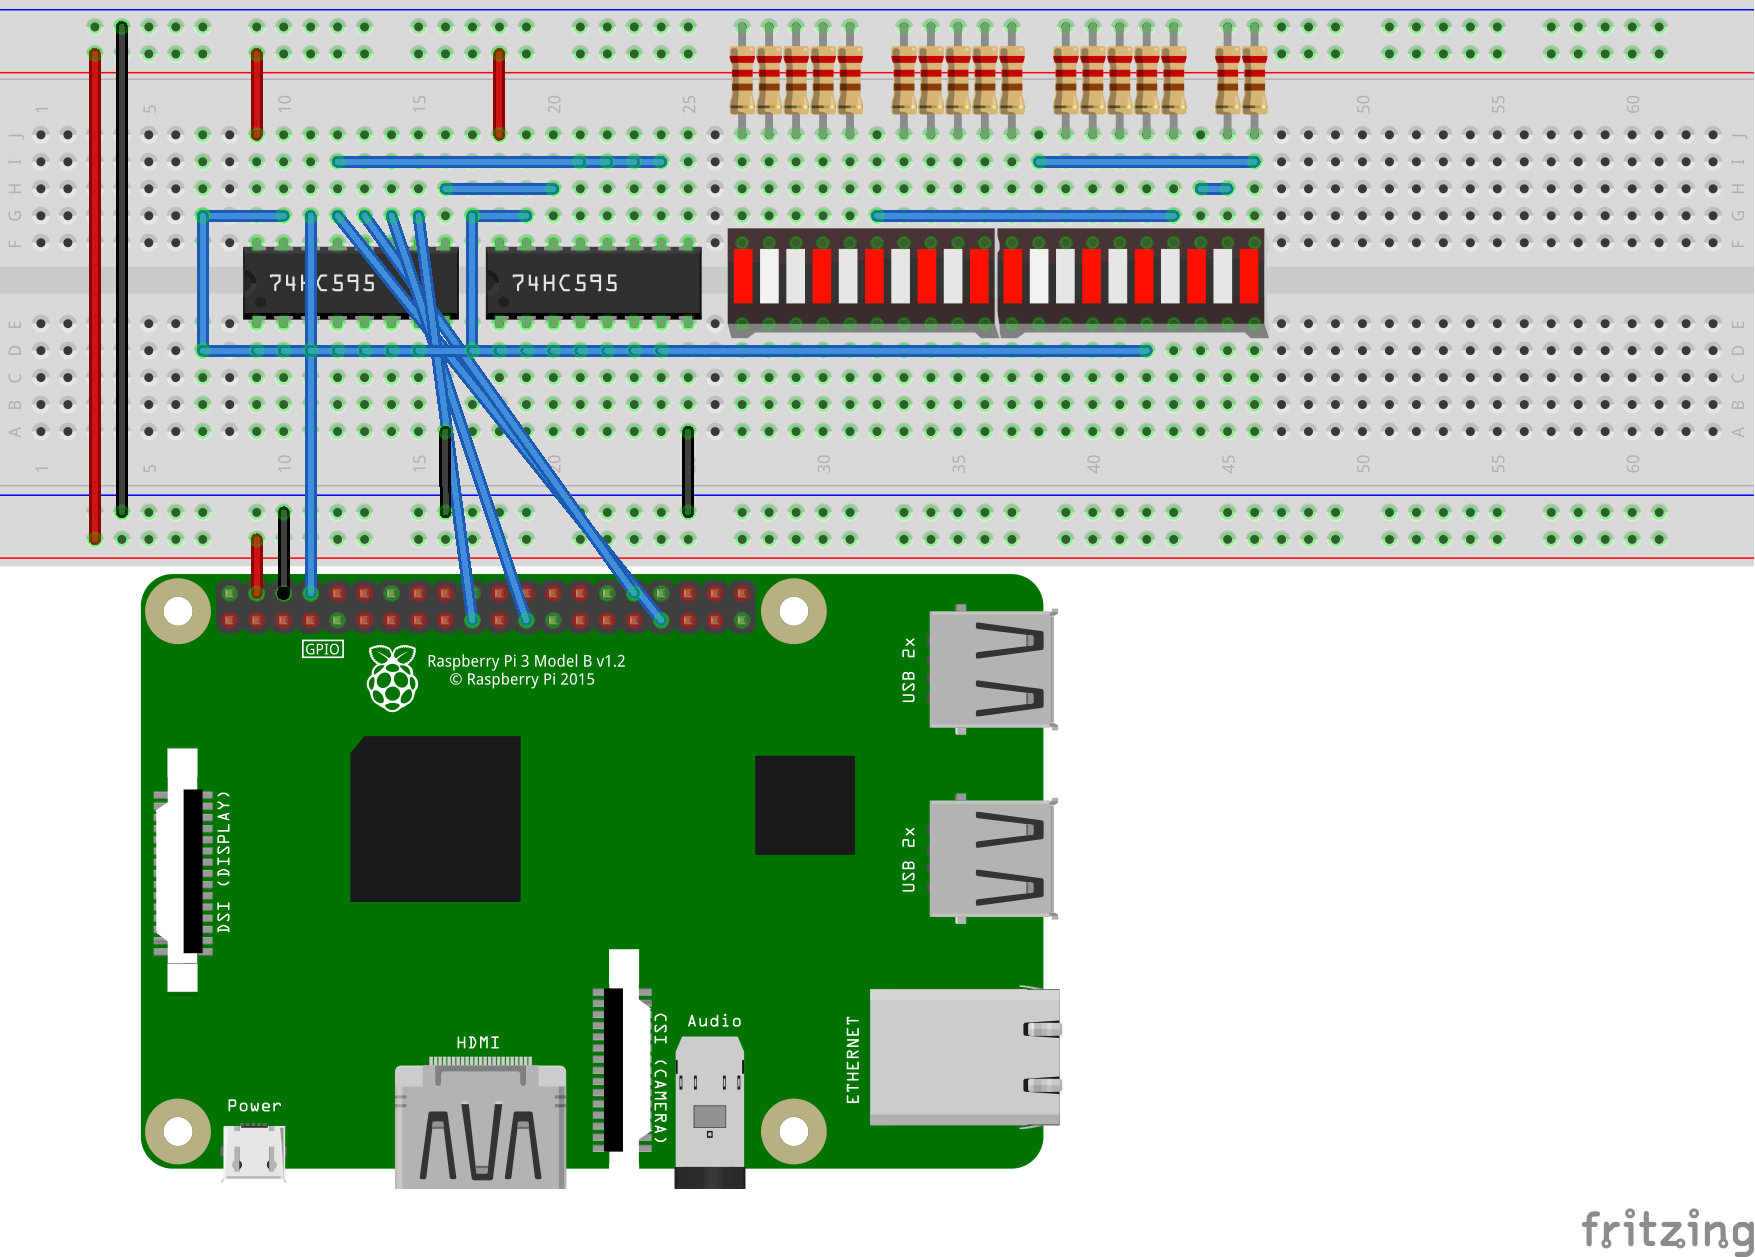
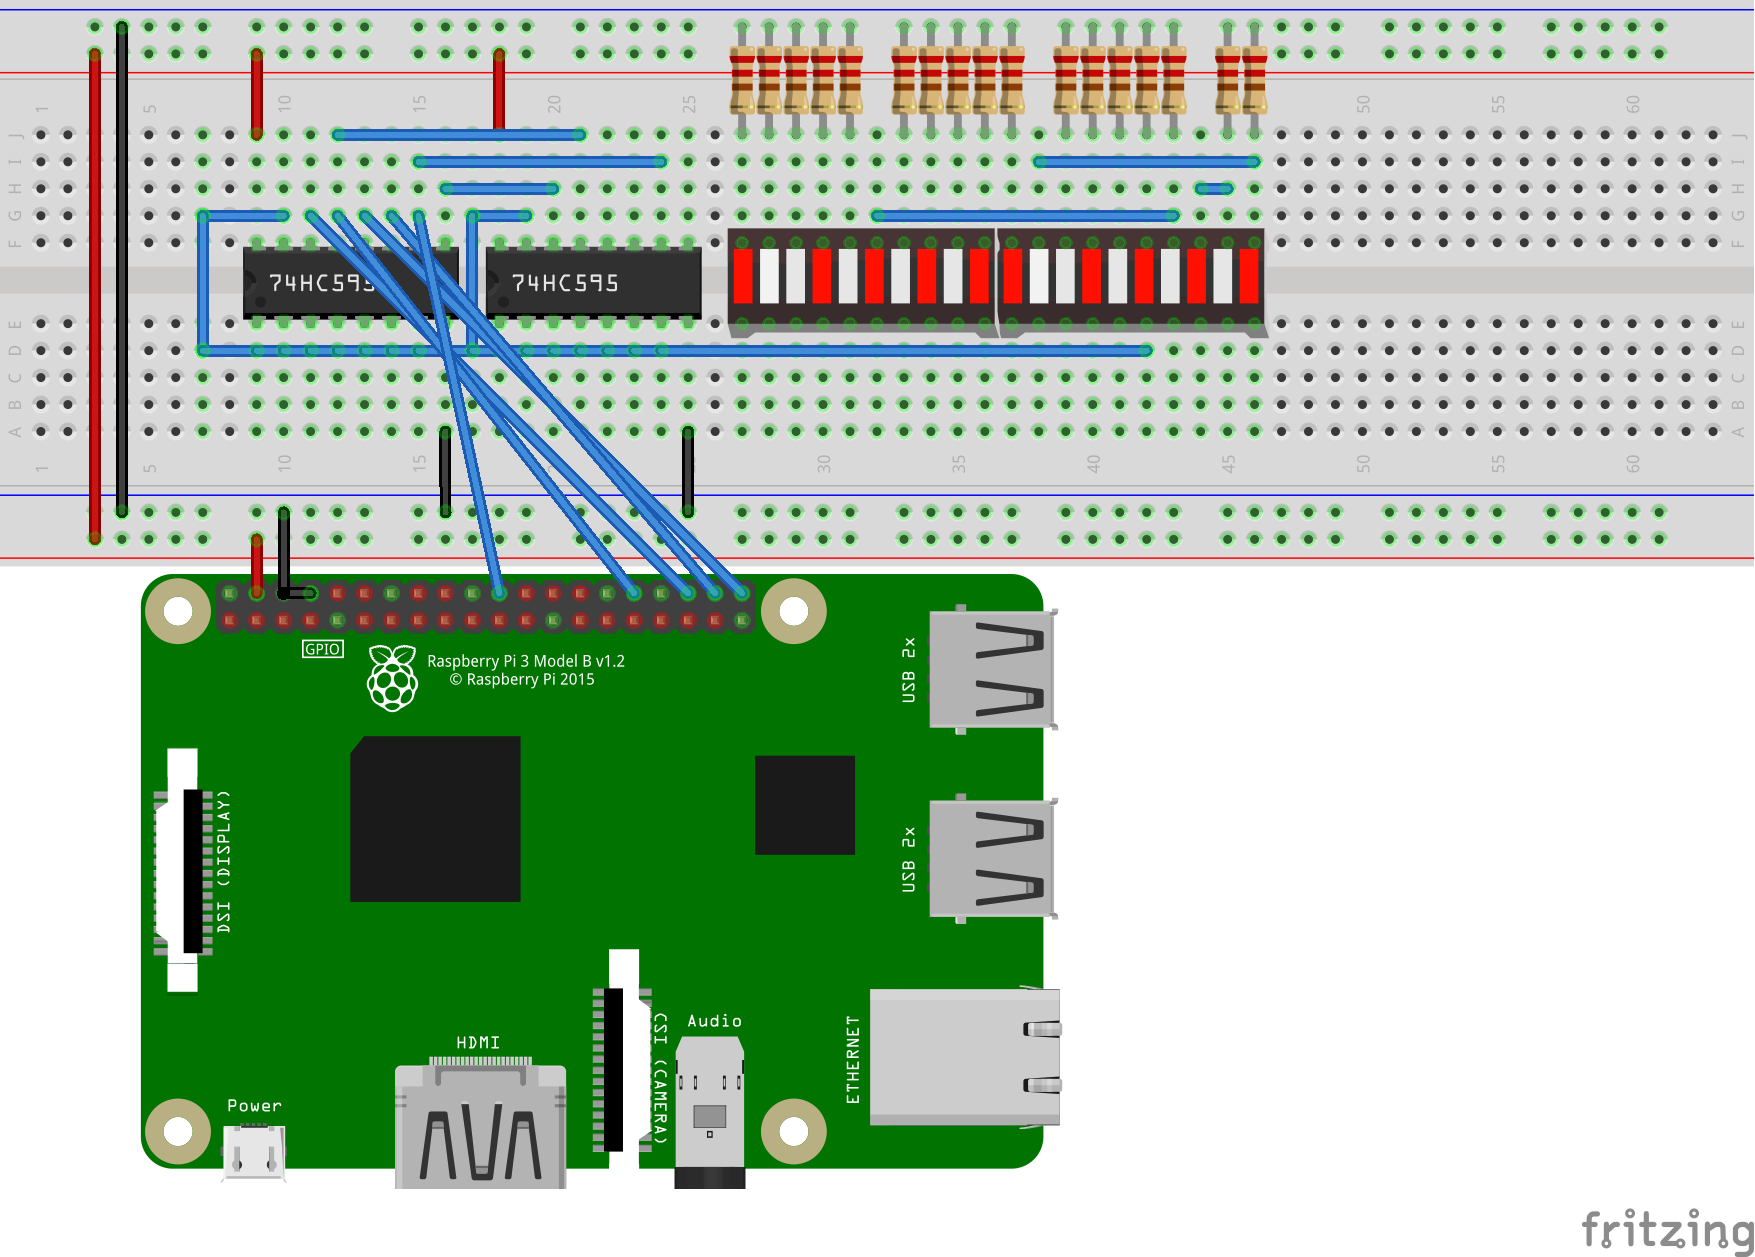
Add double-up example

Changed region(s): [[0.1538, 0.0931, 0.4308, 0.4964], [0.3385, 0.1241, 0.3692, 0.1551], [0.3077, 0.5274, 0.3385, 0.5585]]

diff --git a/src/devices/ShiftRegister/README.md b/src/devices/ShiftRegister/README.md
@@ -120,6 +120,10 @@ foreach (var b in bytes)
 }
 ```
 
+The following diagram demonstrates the required wiring for using the SN74HC595 with daisy-chaining. Other shift registers will be similar.
+
+![sn74hc595-led-bar-graph-double-up_bb](../Sn74hc595/sn74hc595-led-bar-graph-double-up_bb.png)
+
 ## Resources
 
 * SN74HC595 datasheet: https://www.ti.com/lit/ds/symlink/sn74hc595.pdf

diff --git a/src/devices/Sn74hc595/README.md b/src/devices/Sn74hc595/README.md
@@ -39,6 +39,7 @@ If you want to use SPI, see the [`ShiftRegister`](../ShiftRegister/README.md) bi
 
 * [SN74HC595 -- GPIO](sn74hc595-led-bar-graph.fzz)
 * [SN74HC595 -- SPI](sn74hc595-led-bar-graph-spi.fzz)
+* [SN74HC595 -- Daisy chaining](sn74hc595-led-bar-graph-double-up.fzz)
 
 ## Resources
 
